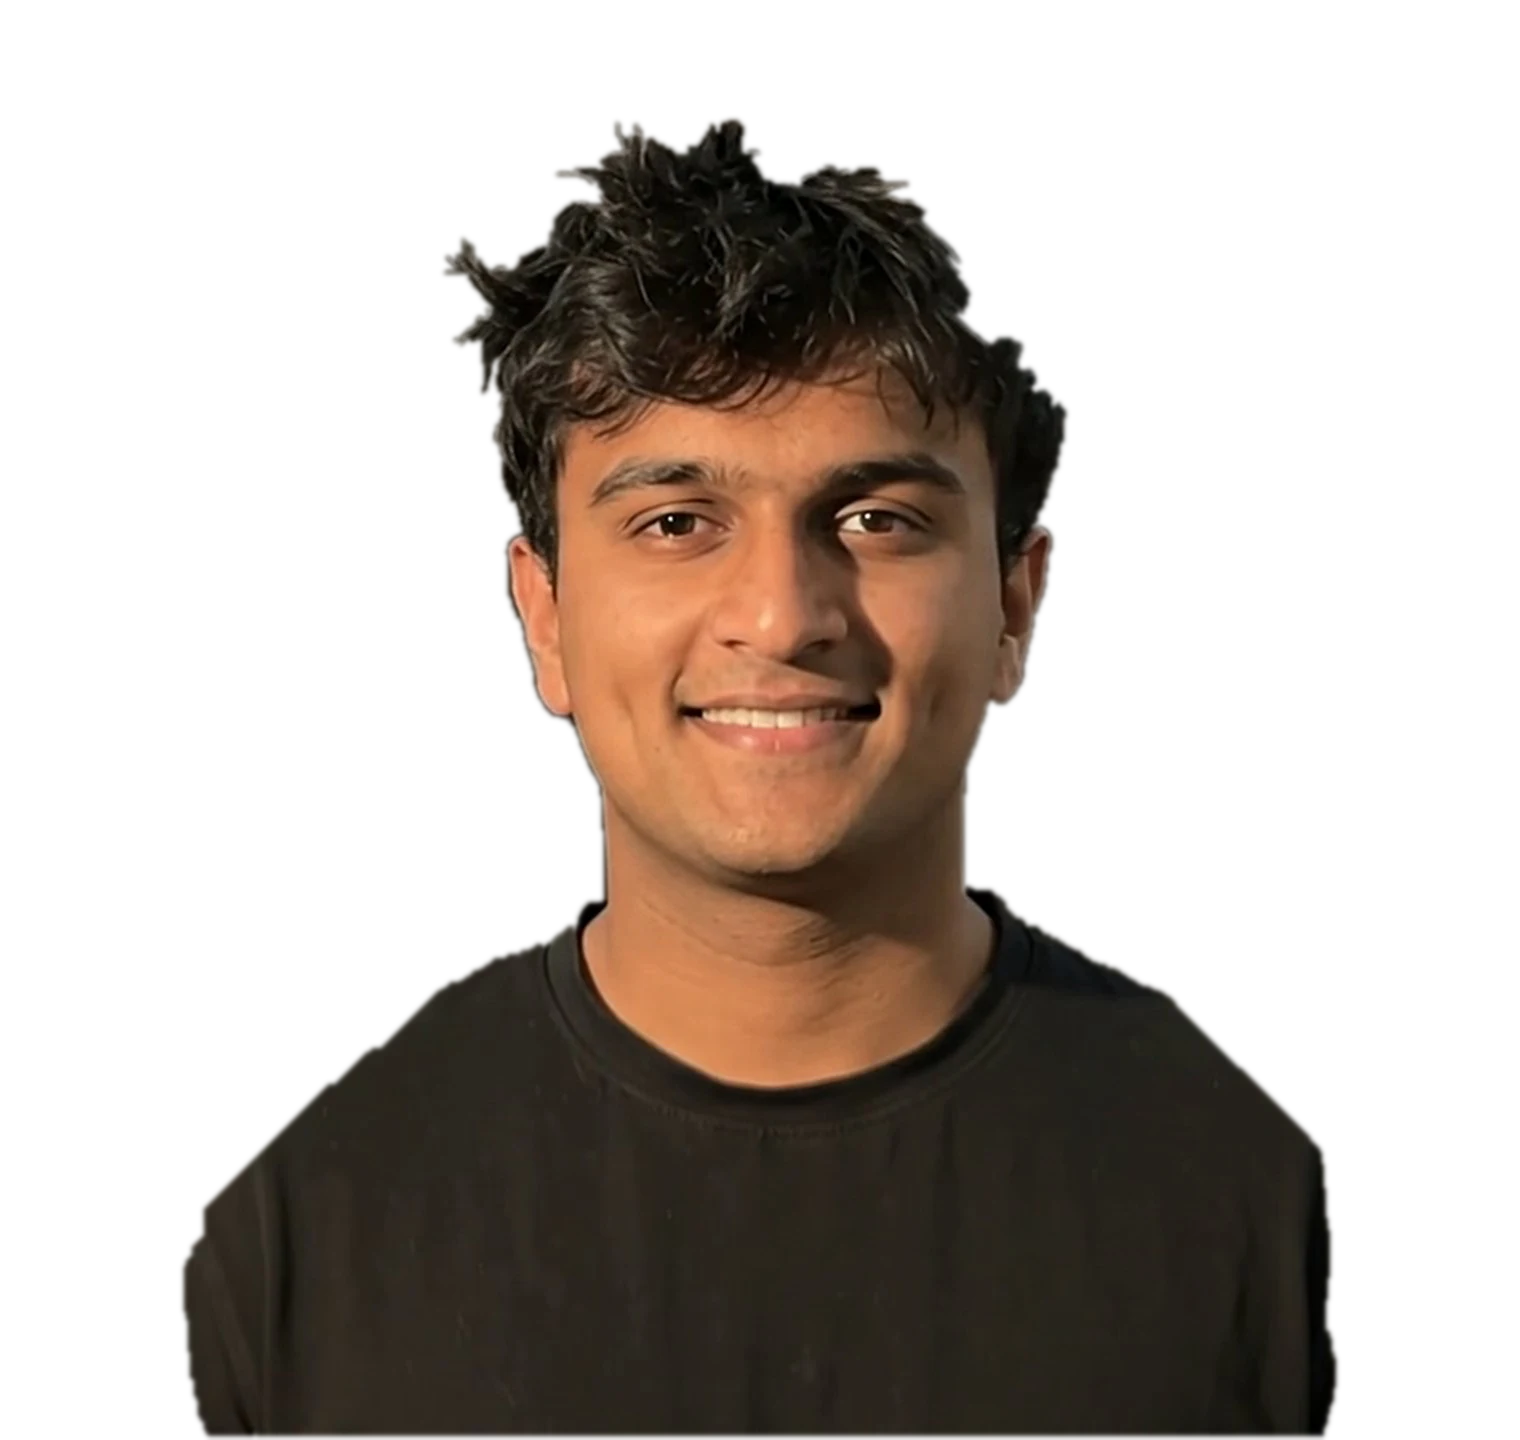
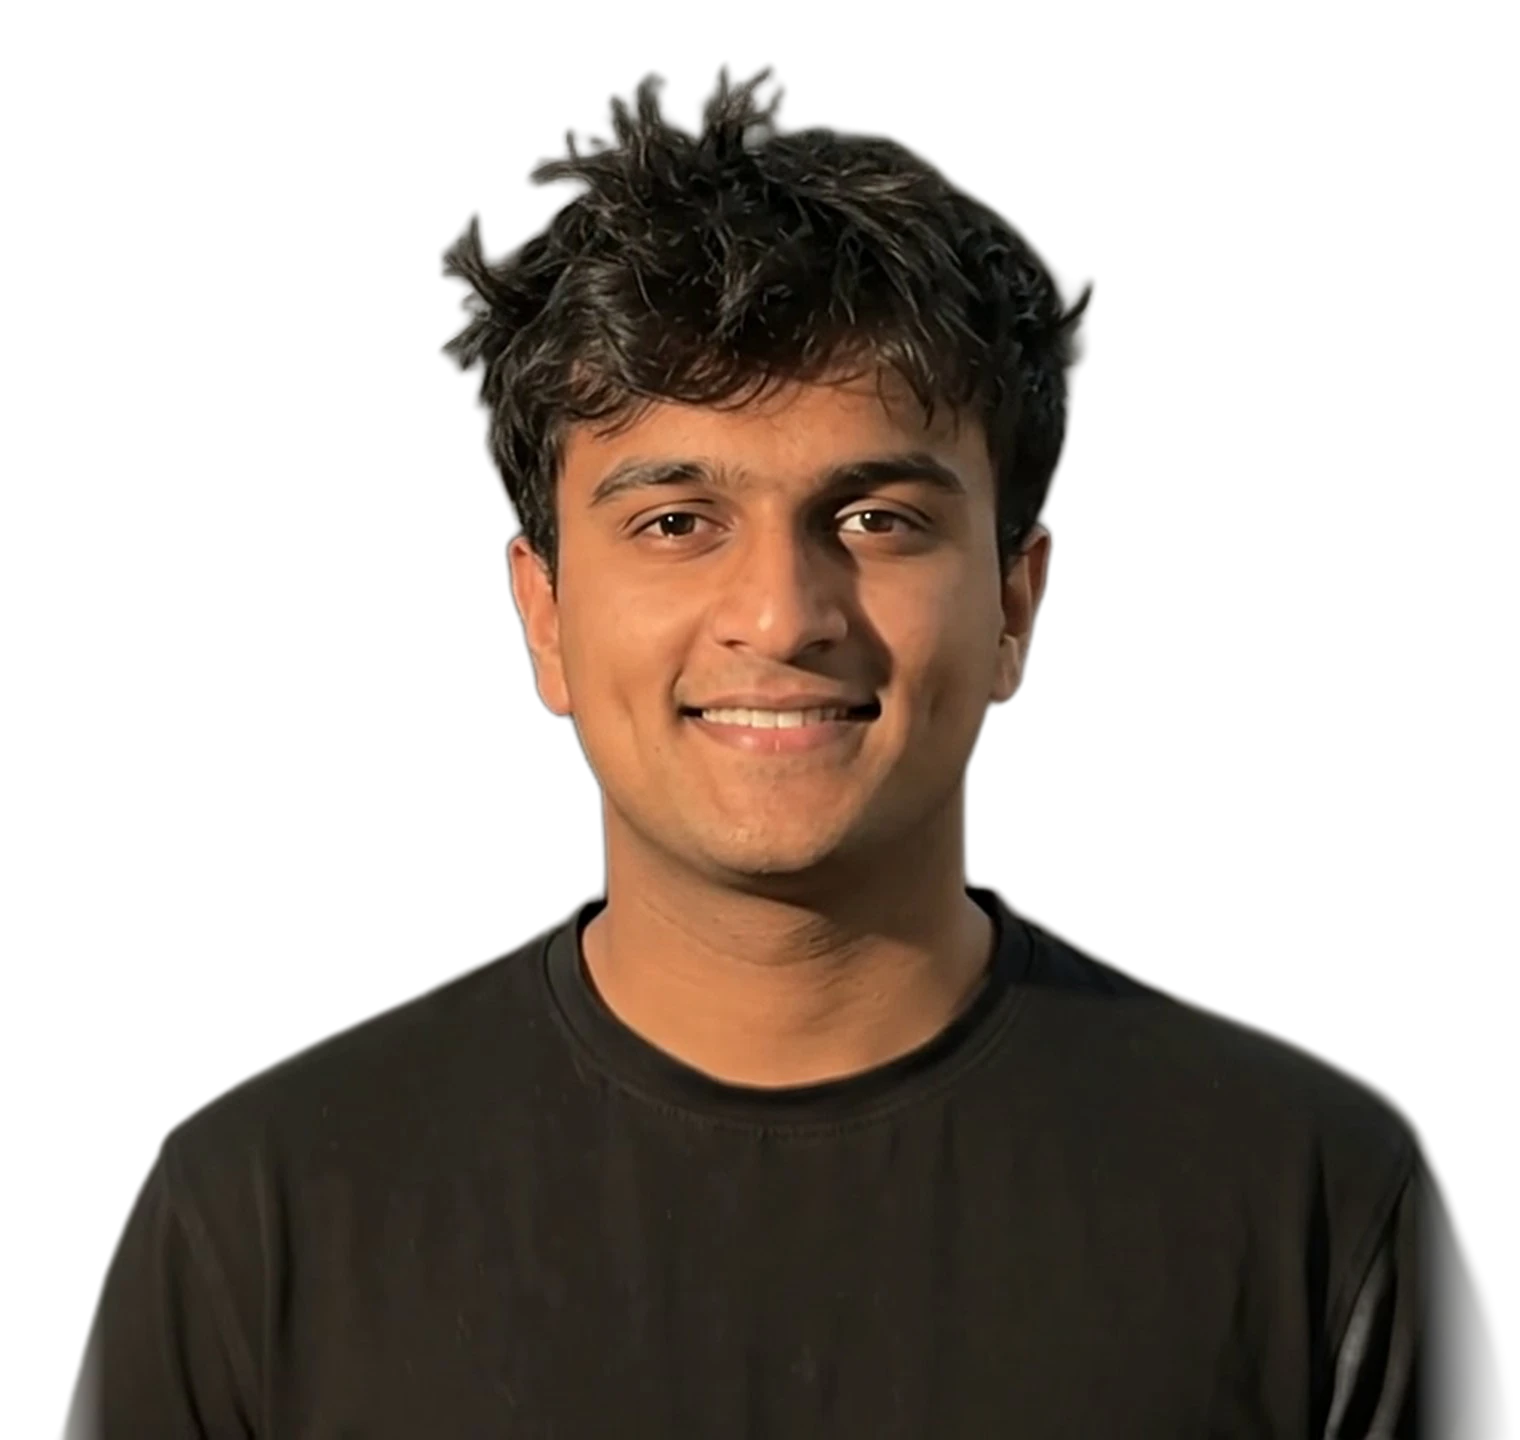
hi

diff --git a/index.html b/index.html
@@ -1,5 +1,4 @@
-<!doctype html>
-<html lang="en">
+<!doctype html><html lang="en">
 <meta charset="utf-8">
 <meta name="viewport" content="width=device-width, initial-scale=1, viewport-fit=cover">
 <title>Chinmay Khamkar Portfolio</title>
@@ -265,6 +264,21 @@ a{color:inherit}
 @media (prefers-reduced-motion:reduce){
   .card img,.card .img::after{transition:none}
 }
+
+/* phone + portrait tablet: names stack around the face, intro sits under them */
+@media (max-width:759px), (max-width:1100px) and (orientation:portrait){
+  .stage .intro{left:var(--gx);right:var(--gr);bottom:calc(18px + env(safe-area-inset-bottom,0px));max-width:none;font-size:14px;line-height:1.5;padding:14px 16px;gap:12px;
+    grid-template-columns:auto 1fr;align-items:center;background:linear-gradient(180deg,rgba(14,15,13,.72),rgba(14,15,13,.94));border-left:2px solid var(--race)}
+  .stage .intro > span{grid-column:1/-1;display:block;color:#d6d3c8}
+  .stage .intro .cta-m{display:inline-flex !important;grid-row:2;grid-column:1;padding:10px 14px;white-space:nowrap}
+  .stage .intro .state{grid-row:2;grid-column:2;justify-self:end;font-size:10px;letter-spacing:.12em;white-space:nowrap}
+  .stage .intro .meter{width:44px}
+  .stage .cta{display:none}
+  .tag.r{display:none}
+}
+@media (min-width:600px) and (max-width:1100px) and (orientation:portrait){
+  .stage .intro{left:auto;width:min(560px,calc(100% - var(--gx) - var(--gr)));font-size:15px}
+}
 </style>
 <script src="https://cdn.jsdelivr.net/npm/lenis@1.1.13/dist/lenis.min.js"></script>
 
@@ -395,7 +409,6 @@ a{color:inherit}
   <div class="in agrid">
     <div class="aside">
       <div class="strip" id="strip" aria-label="Photos of Chinmay"><div class="strip-row" id="stripRow"></div></div>
-      <button type="button" class="spause" id="spause" aria-pressed="false">Pause photos</button>
       <dl class="facts">
         <div><dt>Studying</dt><dd>B.Des Product Design, MIT-WPU Pune</dd></div>
         <div><dt>Running</dt><dd>Vahanik Customs, founder &amp; lead fabricator</dd></div>
@@ -595,13 +608,11 @@ a{color:inherit}
   for (let rep=0; rep<2; rep++) PH.forEach(([src,cap])=>{ const f = document.createElement('figure'); if (rep) f.setAttribute('aria-hidden','true');
     f.innerHTML = `<img src="img/${src}" alt="${rep?'':cap}" loading="lazy"><figcaption>${cap}</figcaption>`; stripRow.appendChild(f); });
   let stripX = 0, stripPaused = false, stripLast = performance.now();
-  let stripHeld = false; strip.addEventListener('pointerenter', ()=>stripPaused = true); strip.addEventListener('pointerleave', ()=>stripPaused = stripHeld);
-  const spause = document.getElementById('spause'); spause.addEventListener('click', ()=>{ stripHeld = !stripHeld; stripPaused = stripHeld; spause.textContent = stripHeld ? 'Play photos' : 'Pause photos'; spause.setAttribute('aria-pressed', String(stripHeld)); });
-  if (reduce){ stripHeld = stripPaused = true; spause.textContent = 'Play photos'; spause.setAttribute('aria-pressed','true'); }
+  if (reduce) stripPaused = true;
   function stripFrame(now){
     const dt = Math.min(64, now - stripLast); stripLast = now;
     const half = stripRow.scrollWidth / 2;
-    if (!stripPaused && half > 0){ stripX += dt * 0.055; if (stripX >= half) stripX -= half; }
+    if (!stripPaused && half > 0){ stripX += dt * 0.085; if (stripX >= half) stripX -= half; }
     stripRow.style.transform = `translate3d(${(stripX - half).toFixed(2)}px,0,0)`;
   }
 
@@ -656,9 +667,7 @@ a{color:inherit}
     dpr = Math.min(devicePixelRatio||1, 1.5);
     W = Math.round(cv.clientWidth*dpr); H = Math.round(cv.clientHeight*dpr);
     cv.width = W; cv.height = H;
-    const mobile = cv.clientWidth < 760;
-    const h = H * (mobile ? .8 : .97); const w = h * 1520/1440;
-    R = { w, h, x: Math.round((mobile ? W*.5 : W*.47) - w/2), y: Math.round(H - h) };
+    layout();
     contours = makeContours(W, H, 'rgba(224,48,30,.30)','rgba(224,48,30,.13)');
     contoursHot = makeContours(W, H, 'rgba(255,150,40,.85)','rgba(255,106,31,.42)', '#3a120b');
     trail.width = Math.ceil(W*TS); trail.height = Math.ceil(H*TS); comp.width = W; comp.height = H;
@@ -815,6 +824,30 @@ a{color:inherit}
       if (have > max) el.style.fontSize = (parseFloat(getComputedStyle(el).fontSize)*max/have)+'px';
       el.textContent = keep;
     });
+    layout(); prescale();
+  }
+  // stack the layout: CHINMAY above the head, the face, KHAMKAR under the chin
+  const HT = .045, CF = .62, stackedMQ = matchMedia('(max-width:759px), (max-width:1100px) and (orientation:portrait)');   // head top and chin as fractions of the photo height
+  function layout(){
+    const cw = cv.clientWidth, ch = cv.clientHeight, mobile = stackedMQ.matches;
+    if (!cw || !ch) return;
+    const sTop = stageEl.getBoundingClientRect().top;
+    const fileEl = document.getElementById('file'), fr = fileEl.getBoundingClientRect();
+    const top0 = fr.bottom - sTop + Math.max(10, ch*.015);
+    const intro = document.querySelector('.intro');
+    const cta = document.querySelector('.cta');
+    const bottom = mobile ? intro.getBoundingClientRect().top - sTop - 10 : cta.getBoundingClientRect().top - sTop - 12;
+    const A = bottom - top0;
+    const cap = (el, maxH)=>{ const h = el.offsetHeight; if (h > maxH){ el.style.fontSize = (parseFloat(getComputedStyle(el).fontSize)*maxH/h)+'px'; } };
+    cap(w1, A*(mobile?.15:.2)); cap(w2, A*(mobile?.16:.22));
+    const h1 = w1.offsetHeight, h2 = w2.offsetHeight, gap = Math.max(4, A*.012);
+    const face = A - h1 - h2 - 2*gap;
+    const rh = Math.min(face/(CF-HT), cw*(mobile?1.35:2)*1440/1520), rw = rh*1520/1440;
+    let ry = top0 + h1 + gap - HT*rh;
+    if (ry + rh < bottom + 40) ry = bottom + 40 - rh;   // never show the photo's bottom edge
+    w1.style.top = top0+'px';
+    w2.style.top = (ry + CF*rh + gap)+'px'; w2.style.bottom = 'auto';
+    R = { w: rw*dpr, h: rh*dpr, x: Math.round(((mobile ? cw*.5 : cw*.47) - rw/2)*dpr), y: Math.round(ry*dpr) };
   }
   addEventListener('resize', ()=>{ size(); fitNames(); });
   size(); fitNames();
@@ -823,5 +856,3 @@ a{color:inherit}
   requestAnimationFrame(frame);
 })();
 </script>
-
-</html>
